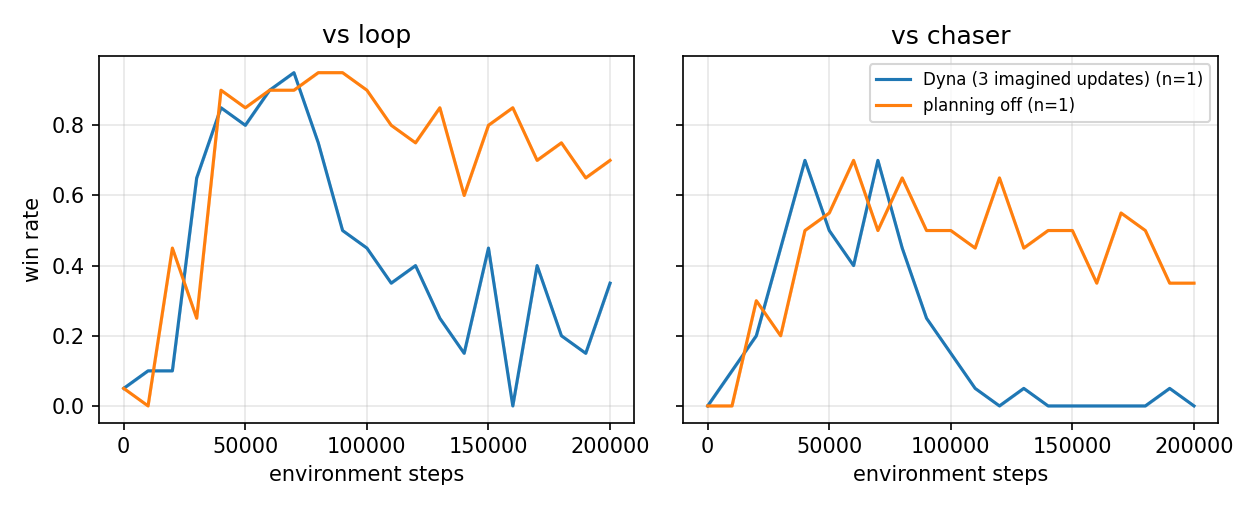
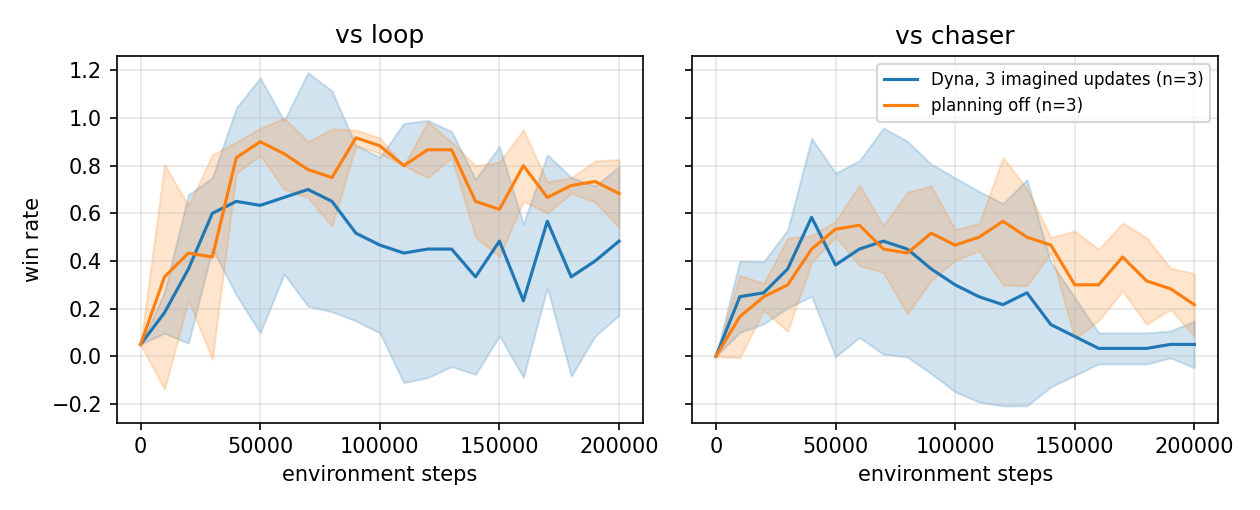
Planning ablation with 3 seeds per arm; B2 fine-tune with turn/pause costs started

diff --git a/results/SUMMARY.md b/results/SUMMARY.md
@@ -22,16 +22,18 @@ Best checkpoint per seed, 50 games per opponent:
 | Dyna, v2, seed 1 | 0.98 | 0.94 | 0.76 |
 | Dyna, v2, seed 2 | 0.96 | 0.46 | 0.16 |
 
-## 2. Ablation: planning causes the late collapse (seed 0, reward v2)
+## 2. Ablation: planning makes Dyna's late collapse much worse (3 seeds each, reward v2)
 
-Figure: `plots/ablation_planning_win_rate.png`.
+Figure: `plots/ablation_planning_win_rate.png`. Win rate, mean ± std over 3 seeds:
 
-| | vs loop at 40k / 120k / 200k | vs chaser at 40k / 120k / 200k |
-|---|---|---|
-| Dyna, 3 imagined updates per real one | 0.85 / 0.40 / 0.35 | 0.70 / 0.00 / 0.00 |
-| same learner, planning off | 0.90 / 0.75 / 0.70 | 0.50 / 0.65 / 0.35 |
+| | 40k | 120k | 200k |
+|---|---|---|---|
+| Dyna (3 imagined updates per real one), vs loop | 0.65 ± 0.28 | 0.45 ± 0.39 | 0.48 ± 0.22 |
+| same learner, planning off, vs loop | 0.83 ± 0.05 | 0.87 ± 0.08 | 0.68 ± 0.10 |
+| Dyna, vs chaser | 0.58 ± 0.24 | 0.22 ± 0.31 | 0.05 ± 0.07 |
+| planning off, vs chaser | 0.45 ± 0.04 | 0.57 ± 0.19 | 0.22 ± 0.09 |
 
-Imagined transitions from an imperfect world model pull the Q-values off course over time. In the large-map setting the world model's error on changed cells stayed around 0.85, so gated planning never switched on. This is one seed per arm and needs more seeds before it's a firm claim.
+Without planning the learner is better and much more consistent across seeds; its spread is a third to a fifth of Dyna's. Planning-off also slips against the chaser late (0.57 → 0.22), so planning amplifies an instability that is already there rather than causing it alone. The likely mechanism is imagined transitions from an imperfect world model pulling the Q-values off course. In the large-map setting the model's error on changed cells stayed around 0.85, so gated planning never switched on.
 
 ## 3. Problems found and fixed (Misha's "find problems and fix them")
 
